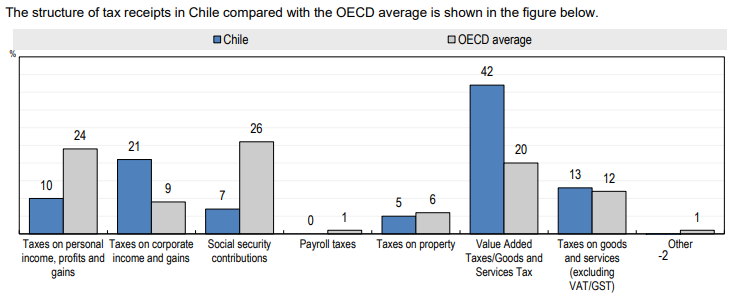
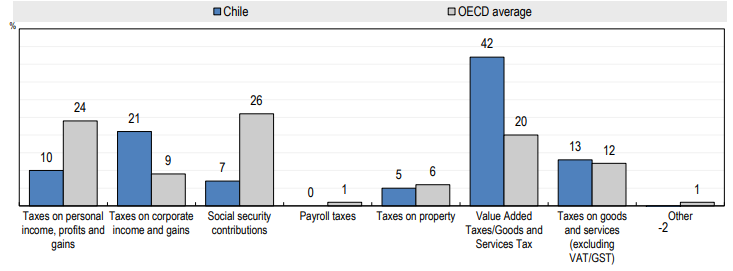
cropped images, twitter button, a bit of styling, working social security section.

diff --git a/index.html b/index.html
@@ -4,7 +4,7 @@
     <title>ChileDifiere.cl</title>
     <link rel="stylesheet" href="css.css" />
     <script type="text/javascript" src="js.js"></script>
-    <link href="https://fonts.googleapis.com/css2?family=Lato:wght@400;700;900&family=Noto+Sans:wght@400;700&family=Poppins:ital,wght@0,500;0,600;1,400&display=swap" rel="stylesheet">
+    <link href="https://fonts.googleapis.com/css2?family=Open+Sans&display=swap" rel="stylesheet">
   	<meta charset="UTF-8">
   	<meta name="description" content="Responsive simple site">
   	<meta name="keywords" content="HTML, CSS, JavaScript">
@@ -13,48 +13,35 @@
   </head>
   <body>
   	<div class="wrapper">
-  		<div class="MainTitle">ChileDifiere.cl</div>
-  		<div class="SecondTitle">Some differences between Chile and the rest of the OECD<br><a href="https://www.oecd.org/tax/revenue-statistics-chile.pdf" target="_blank">Traducción al Español</a></div>
+  		<div class="MainTitle">Chile Difiere</div>
+  		<div class="SecondTitle">Some differences between the Chilean model and the rest of the OECD<br><a href="https://www.oecd.org/tax/revenue-statistics-chile.pdf" target="_blank">Traducción al Español</a></div>
 
 
       <div class="Sections">
-        <button  onclick="myFunctionRicas()" class="coolbutton">Personal Income Taxes <i>(Taxes that hurt high salaries)</i><span id="plusP">+</span></button>
+        <button  onclick="myFunctionRicas()" class="coolbutton">Personal Income Taxes <i class="Parentesis">(Taxes that hurt high salaries)</i><span id="plusP">+</span></button>
       </div>
 
       <div class="Content" id="ImpuestosPersonasRicas" >
 
-                 <h1>Chile collects less than half of the OECD average from personal income taxes.</h1>
                  <img src="images/personal.png">
-                 <p>"Relative to the OECD average, the tax structure in Chile is characterised by substantially lower revenues from taxes on personal income."<br><a href="https://www.oecd.org/tax/revenue-statistics-chile.pdf" target="_blank"><i>OECD Revenue Statistics 2019</i></a></p>
+                 <h1>"Relative to the OECD average, the tax structure in Chile is characterised by <b>substantially lower</b> revenues from taxes on personal income."<br><a href="https://www.oecd.org/tax/revenue-statistics-chile.pdf" target="_blank"><i>OECD Revenue Statistics 2019</i></a></h1>
 
-                 <h1>Personal income tax is a progressive tax, <br>high salaries pay a bigger %</h1>
-                 <p>"The personal income tax is the most progressive tax, although there are significant cross-country variations."
-                    <br>
-                    <a href="https://www.oecd.org/economy/public-finance/TacklingincomeinequalityTheroleoftaxesandtransfers.pdf" target="_blank"><i>Joumard, Isabelle, Mauro
-                    Pisu and Debbie Bloch (2012), “Tackling
-                    income inequality: The role of taxes and transfers”, OECD Journal:
-                    Economic Studies, published online first.
-                    http://dx.doi.org/10.1787/eco_studies-2012-5k95xd6l65lt</i></a>
-                 </p>
-
-                 <h1>Chile doesn't use personal income tax to reduce inequality</h1>
                  <img src="images/ginibeforeafter.png">
-                 <p>"The Gini index measures the extent to which the distribution of incomes among households deviates from perfect equal
-                    distribution. A value of zero represents perfect equality and a value of 100 extreme inequality. Redistribution is measured by the
-                    difference between the Gini coefficient before personal income taxes and transfers (market incomes) and the Gini coefficient after
-                    taxes and transfers (disposable incomes) in per cent of the Gini coefficient before taxes and transfers."<br><a href="https://www.oecd-ilibrary.org/docserver/bc7569c6-en.pdf?expires=1591043357&id=id&accname=guest&checksum=E4090AAFC6AD41A52657D5BD5F62FAAC" target="_blank"><i>Causa, O. and M. Hermansen (2017), "Income redistribution through taxes and transfers across OECD countries", OECD Economics Department Working Papers, No. 1453, OECD Publishing, Paris, https://doi.org/10.1787/bc7569c6-en.</i></a></p>
+                 <p>"Redistribution is measured by the
+                    difference between the <b>Gini coefficient before personal income taxes</b> and transfers (market incomes) and the <b>Gini coefficient after
+                    taxes</b> and transfers (disposable incomes) in per cent of the Gini coefficient before taxes and transfers."<br><a href="https://www.oecd-ilibrary.org/docserver/bc7569c6-en.pdf?expires=1591043357&id=id&accname=guest&checksum=E4090AAFC6AD41A52657D5BD5F62FAAC" target="_blank"><i>Causa, O. and M. Hermansen (2017), "Income redistribution through taxes and transfers across OECD countries", OECD Economics Department Working Papers, No. 1453, OECD Publishing, Paris, https://doi.org/10.1787/bc7569c6-en.</i></a></p>
+                                   <h1>Unlike other OECD countries, Chile's personal income tax <b>does not reduce inequality</b>.</h1>
 
       </div>
 
       <div class="Sections">
-        <button  onclick="myFunctionNormal()" class="coolbutton">VAT, Value-Added Taxes <i>(Taxes that hurt low salaries)</i><span id="plusN">+</span></button>
+        <button  onclick="myFunctionNormal()" class="coolbutton">VAT, Value-Added Taxes <i class="Parentesis">(Taxes that hurt low salaries)</i><span id="plusN">+</span></button>
       </div>
 
       <div class="Content" id="ImpuestosPersonasNormales" >
 
-                 <h1>El Estado Chileno recauda mas del doble que el promedio OCDE del IVA</h1>
                  <img src="images/iva.png">
-                 <p>Relative to the OECD average, the tax structure in Chile is characterised by substantially higher revenues from value-added taxes (VAT).<br><a href="https://www.oecd.org/tax/revenue-statistics-chile.pdf" target="_blank"><i>OECD Revenue Statistics 2019</i></a></p>
+                 <h1>"Relative to the OECD average, the tax structure in Chile is characterised by <b>substantially higher</b> revenues from value-added taxes (VAT)."<br><a href="https://www.oecd.org/tax/revenue-statistics-chile.pdf" target="_blank"><i>OECD Revenue Statistics 2019</i></a></h1>
 
                  <h1>El IVA perjudica a los pobres</h1>
                  <p>VAT<a href="https://www.taxresearch.org.uk/Blog/2018/10/09/vat-is-regressive/" target="_blank"><i>is a regressive tax</i></a>.This means the lower your salary is, the more % is taken by VAT.</p>
@@ -62,36 +49,36 @@
       </div>
 
       <div class="Sections">
-        <button  onclick="myFunctionEmpresas()" class="coolbutton">Taxes on Corporate Gains <i>(Taxes that hurt companies)</i><span id="plusE">+</span></button>
+        <button  onclick="myFunctionEmpresas()" class="coolbutton">Taxes on Corporate Gains <i class="Parentesis">(Taxes that hurt companies)</i><span id="plusE">+</span></button>
       </div>
 
       <div class="Content" id="ImpuestosEmpresas" >
 
-                 <h1>El Estado Chileno recauda mas del doble que el promedio OCDE de utilidades</h1>
+
                  <img src="images/income.png">
-                 <p>Como sale en <a href="https://www.oecd.org/tax/revenue-statistics-chile.pdf" target="_blank"><i>OECD Revenue Statistics 2019</i></a>, cerca del 42% de lo que recauda el Estado Chileno viene del IVA. En la OECD, el promedio es 20%.</p>
+                 <h1>"The tax structure in Chile is characterised by <b>substantially higher</b> revenues from taxes on corporate income & gains."<br><a href="https://www.oecd.org/tax/revenue-statistics-chile.pdf" target="_blank"><i>OECD Revenue Statistics 2019</i></a></h1>
 
                  <h1>Un impuesto bajo a las utilidades atrae inversion al pais</h1>
-                 <p>Relative to the OECD average, the tax structure in Chile is characterised by substantially higher revenues from taxes on corporate income & gains.<br><a href="https://www.oecd.org/tax/revenue-statistics-chile.pdf" target="_blank"><i>OECD Revenue Statistics 2019</i></a></p>
 
       </div>
 
       <div class="Sections">
-        <button  onclick="myFunctionEmpresas()" class="coolbutton">Social Security Contributions <i>(Taxes that benefit who can't work)</i><span id="plusE">+</span></button>
+        <button  onclick="myFunctionSeguridad()" class="coolbutton">Social Security Contributions <i class="Parentesis">(Taxes that benefit who can't work)</i><span id="plusS">+</span></button>
       </div>
 
-      <div class="Content" id="ImpuestosEmpresas" >
+      <div class="Content" id="ImpuestosSeguridad" >
 
-                 <h1>El Estado Chileno recauda mas del doble que el promedio OCDE de utilidades</h1>
+
                  <img src="images/income.png">
-                 <p>Como sale en <a href="https://www.oecd.org/tax/revenue-statistics-chile.pdf" target="_blank"><i>OECD Revenue Statistics 2019</i></a>, cerca del 42% de lo que recauda el Estado Chileno viene del IVA. En la OECD, el promedio es 20%.</p>
+                 <h1>"Relative to the OECD average, the tax structure in Chile is characterised by <b>substantially lower</b> revenues from social security contributions."<br><a href="https://www.oecd.org/tax/revenue-statistics-chile.pdf" target="_blank"><i>OECD Revenue Statistics 2019</i></a></h1>
 
                  <h1>Un impuesto bajo a las utilidades atrae inversion al pais</h1>
-                 <p>Relative to the OECD average, the tax structure in Chile is characterised by substantially higher revenues from taxes on corporate income & gains.<br><a href="https://www.oecd.org/tax/revenue-statistics-chile.pdf" target="_blank"><i>OECD Revenue Statistics 2019</i></a></p>
 
       </div>
 
-  		<div class="Footer">Made by <a href="https://twitter.com/pauloco15" target="_blank">Pablo</a></div>
+  		<div class="Footer">Made by Pablo
+        <br></br><a href="https://twitter.com/pauloco15?ref_src=twsrc%5Etfw" class="twitter-follow-button" data-size="large" data-show-screen-name="false" data-show-count="false">Follow @pauloco15</a><script async src="https://platform.twitter.com/widgets.js" charset="utf-8"></script>
+        </div>
   	</div>
   </body>
 </html>

diff --git a/css.css b/css.css
@@ -10,8 +10,9 @@ body {
 }
 
 h1 {
-	margin-top: 14vh;
-	margin-bottom: 6vh;
+	margin-top: 3vh;
+	margin-bottom: 7vh;
+  font-weight: normal;
 }
 
 p {
@@ -22,8 +23,18 @@ a {
 	font-size: 20px;
 }
 
+i {
+  font-weight: bold;
+  font-size: 16px;
+}
+
+i.Parentesis {
+  font-size: 23px;
+}
+
 img {
 	width: var(--ancho-menos-margen-laptop);
+  margin-top: 15vh;
 }
 
 .wrapper {
@@ -31,12 +42,12 @@ img {
 	margin: 0 auto;
 	display: grid;
 	background-color: white;
-	font-family: 'Lato', sans-serif;
+	font-family: 'Open Sans', sans-serif;
 }
 
 .MainTitle {
-	font-family: 'Poppins', sans-serif;
-	font-size: 68px;
+	font-family: 'Open Sans', sans-serif;
+	font-size: 70px;
 	font-weight: bold;
 	margin: auto auto auto 0;
 	padding: 3vh 0 3vh 0;
@@ -47,7 +58,7 @@ img {
 }
 
 .SecondTitle {
-	font-family: 'Noto Sans', sans-serif;
+	font-family: 'Open Sans', sans-serif;
 	font-size: 18px;
 	font-weight: normal;
 	margin: 5vh auto 5vh 0;
@@ -59,9 +70,8 @@ img {
 }
 
 div.Sections {
-	font-family: 'Noto Sans', sans-serif;
+	font-family: 'Open Sans', sans-serif;
 	font-weight: normal;
-	font-size: 22px;
 	text-align: left;
  	top: 0;
  	z-index: 99;
@@ -78,7 +88,7 @@ div.Sections {
 	width: var(--ancho-contenido-laptop);
 	background-color: #363636;
 	border: 0px;
-	padding: 1.5vh 0 1.5vh 1vw;
+	padding: 2.5vh 0 2.5vh 1vw;
 	margin-bottom: 2px;
 	color: white;
 	text-align: left;
@@ -110,6 +120,11 @@ div.Sections {
 	margin-right: 1vw;
 }
 
+#plusS {
+	float: right;
+	margin-right: 1vw;
+}
+
 #ImpuestosEmpresas {
 	display: none;
 }
@@ -122,13 +137,17 @@ div.Sections {
 	display: none;
 }
 
+#ImpuestosSeguridad {
+	display: none;
+}
+
 .Footer {
 	text-align: center;
 	font-size: 18px;
 	font-weight: normal;
 	padding: 2vh 0;
 	width: var(--ancho-contenido-laptop);
-  margin-top: 8vh;
+  margin-top: 5vh;
 }
 
 

diff --git a/js.js b/js.js
@@ -34,3 +34,14 @@ function myFunctionNormal() {
 
 }
 
+function myFunctionSeguridad() {
+  var x = document.getElementById("ImpuestosSeguridad");
+  if (x.style.display === "block") {
+    x.style.display = "none";
+    document.getElementById("plusS").innerHTML = "+";
+  } else {
+    x.style.display = "block";
+    document.getElementById("plusS").innerHTML = "-";
+  }
+
+}
